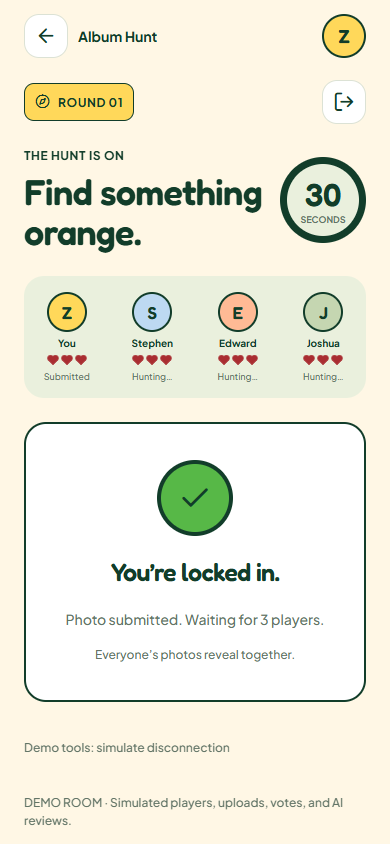
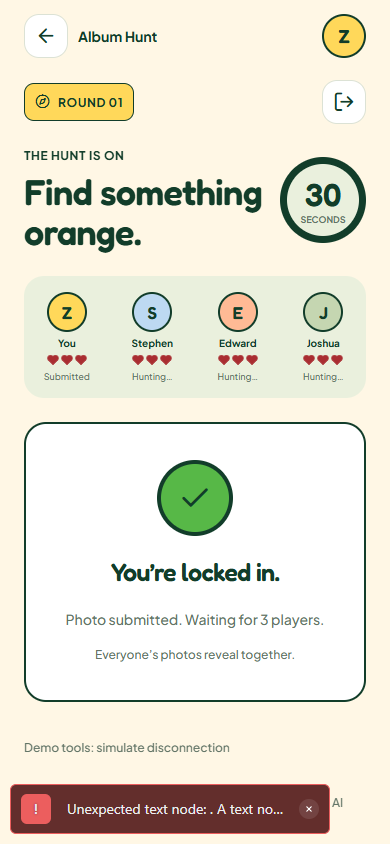
login page

Changed region(s): [[0.0, 0.9242, 0.8615, 1.0]]

diff --git a/iHunt/src/screens.tsx b/iHunt/src/screens.tsx
@@ -84,6 +84,59 @@ const modes: {
 ];
 const go = (screen: string, params?: Record<string, string>) =>
   router.push({ pathname: "/[page]", params: { page: screen, ...params } });
+const enterHome = () =>
+  router.replace({ pathname: "/[page]", params: { page: "home" } });
+
+export function Welcome() {
+  return (
+    <SafeAreaView style={{ flex: 1, backgroundColor: C.cream }}>
+      <ScrollView
+        showsVerticalScrollIndicator={false}
+        contentContainerStyle={st.welcomeContent}
+      >
+        <View style={{ gap: 12, alignItems: "center" }}>
+          <Label>WELCOME TO THE HUNT</Label>
+          <Wordmark large />
+          <Title>Find it. Snap it. Win it.</Title>
+          <Body center>
+            One prompt for everyone. Your best photo takes the spotlight.
+          </Body>
+        </View>
+        <View style={st.welcomeArt}>
+          <Art mode="album" large />
+          <View style={st.welcomeBadge}>
+            <Icon name="aperture" size={17} />
+            <Label>YOUR NEXT ADVENTURE AWAITS</Label>
+          </View>
+        </View>
+        <View style={{ gap: 14 }}>
+          <Button
+            title="Sign In"
+            icon="arrow-right"
+            onPress={() => go("login")}
+          />
+          <Button
+            title="Create Account"
+            secondary
+            onPress={() => go("signup")}
+          />
+          <Pressable
+            accessibilityRole="button"
+            onPress={enterHome}
+            style={{
+              minHeight: 48,
+              alignItems: "center",
+              justifyContent: "center",
+            }}
+          >
+            <Text style={st.bold}>Skip</Text>
+          </Pressable>
+          <Body center>Skip opens the demo with sample players.</Body>
+        </View>
+      </ScrollView>
+    </SafeAreaView>
+  );
+}
 function Shell({
   children,
   title,
@@ -114,8 +167,7 @@ function Shell({
                   label="Go back"
                   onPress={
                     onBack ||
-                    (() =>
-                      router.canGoBack() ? router.back() : router.replace("/"))
+                    (() => (router.canGoBack() ? router.back() : enterHome()))
                   }
                 />
                 <Text style={{ fontFamily: F.bold, color: C.green }}>
@@ -181,7 +233,7 @@ export function Home() {
       home
       footer={
         <View style={st.nav}>
-          <Pressable style={st.navItem} onPress={() => router.replace("/")}>
+          <Pressable style={st.navItem} onPress={enterHome}>
             <Icon name="compass" />
             <Text style={st.navLabel}>Play</Text>
           </Pressable>
@@ -553,7 +605,7 @@ function Lobby() {
         secondary
         onPress={() => {
           send({ type: "leave-lobby" });
-          router.replace("/");
+          enterHome();
         }}
       />
       <Note>
@@ -680,7 +732,7 @@ function Auth({ signup = false }: { signup?: boolean }) {
       if (signup && !name.trim()) throw Error("Enter your display name.");
       await demoService.authenticate(email, password);
       if (name.trim()) setName(name.trim());
-      router.replace("/");
+      enterHome();
     } catch (e) {
       setError((e as Error).message);
     } finally {
@@ -748,7 +800,7 @@ function Auth({ signup = false }: { signup?: boolean }) {
         title="Explore the demo"
         icon="compass"
         secondary
-        onPress={() => router.replace("/")}
+        onPress={enterHome}
       />
       <Note>
         Demo only. No account is created and no credentials are stored.
@@ -817,9 +869,7 @@ function Profile() {
         title="Log out of demo"
         secondary
         icon="log-out"
-        onPress={() =>
-          router.replace({ pathname: "/[page]", params: { page: "login" } })
-        }
+        onPress={() => router.replace("/")}
       />
     </Shell>
   );
@@ -993,11 +1043,7 @@ function GameScreen() {
             });
           }}
         />
-        <Button
-          title="Back to home"
-          secondary
-          onPress={() => router.replace("/")}
-        />
+        <Button title="Back to home" secondary onPress={enterHome} />
       </Shell>
     );
   return (
@@ -1387,7 +1433,7 @@ function GameScreen() {
                     onPress={() => {
                       send({ type: "forfeit" });
                       setPreview("");
-                      router.replace("/");
+                      enterHome();
                     }}
                   />
                   <Button
@@ -1438,6 +1484,8 @@ function GameRound() {
 }
 export function Screens({ screen }: { screen: string }) {
   switch (screen) {
+    case "home":
+      return <Home />;
     case "mode":
       return <ModeDetails />;
     case "join":
@@ -1465,6 +1513,36 @@ export function Screens({ screen }: { screen: string }) {
   }
 }
 const st = StyleSheet.create({
+  welcomeContent: {
+    flexGrow: 1,
+    width: "100%",
+    maxWidth: 520,
+    alignSelf: "center",
+    paddingHorizontal: 24,
+    paddingTop: 36,
+    paddingBottom: 32,
+    justifyContent: "space-between",
+    gap: 32,
+  },
+  welcomeArt: {
+    minHeight: 188,
+    backgroundColor: "#EAF0DD",
+    borderRadius: 24,
+    borderWidth: 2,
+    borderColor: C.green,
+    alignItems: "center",
+    justifyContent: "center",
+    padding: 16,
+    gap: 8,
+  },
+  welcomeBadge: {
+    flexDirection: "row",
+    alignItems: "center",
+    gap: 8,
+    padding: 10,
+    backgroundColor: C.yellow,
+    borderRadius: 12,
+  },
   container: { flex: 1, width: "100%", maxWidth: 520, alignSelf: "center" },
   header: {
     paddingHorizontal: 24,

diff --git a/iHunt/src/ui/components.tsx b/iHunt/src/ui/components.tsx
@@ -155,22 +155,13 @@ export function Field({
     </View>
   );
 }
-export const Wordmark = () => (
-  <View style={s.row}>
-    <View style={s.logo}>
-      <Icon name="aperture" size={25} color={C.cream} />
-    </View>
-    <Text
-      style={{
-        fontFamily: F.title,
-        color: C.green,
-        fontSize: 34,
-        letterSpacing: -1.5,
-      }}
-    >
-      iHunt<Text style={{ color: C.orange }}>.</Text>
-    </Text>
-  </View>
+export const Wordmark = ({ large = false }: { large?: boolean }) => (
+  <Image
+    source={require("../../assets/Green cursive ihunt logo with camera dot.png")}
+    accessibilityLabel="iHunt"
+    resizeMode="contain"
+    style={{ width: large ? 310 : 142, height: large ? 112 : 51 }}
+  />
 );
 export function Avatar({
   name,

diff --git a/iHunt/src/app/index.tsx b/iHunt/src/app/index.tsx
@@ -1,1 +1,1 @@
-export { Home as default } from "../screens";
+export { Welcome as default } from "../screens";

diff --git a/iHunt/README.md b/iHunt/README.md
@@ -1,6 +1,6 @@
 # iHunt
 
-An Expo SDK 58 / React Native / TypeScript frontend with an original jungle arcade design. Open the app straight into the playable demo; no credentials are required.
+An Expo SDK 58 / React Native / TypeScript frontend with an original jungle arcade design. The entry screen offers Sign In, Create Account, and Skip. Skip opens the playable demo without credentials.
 
 ## Run on your phone
 
